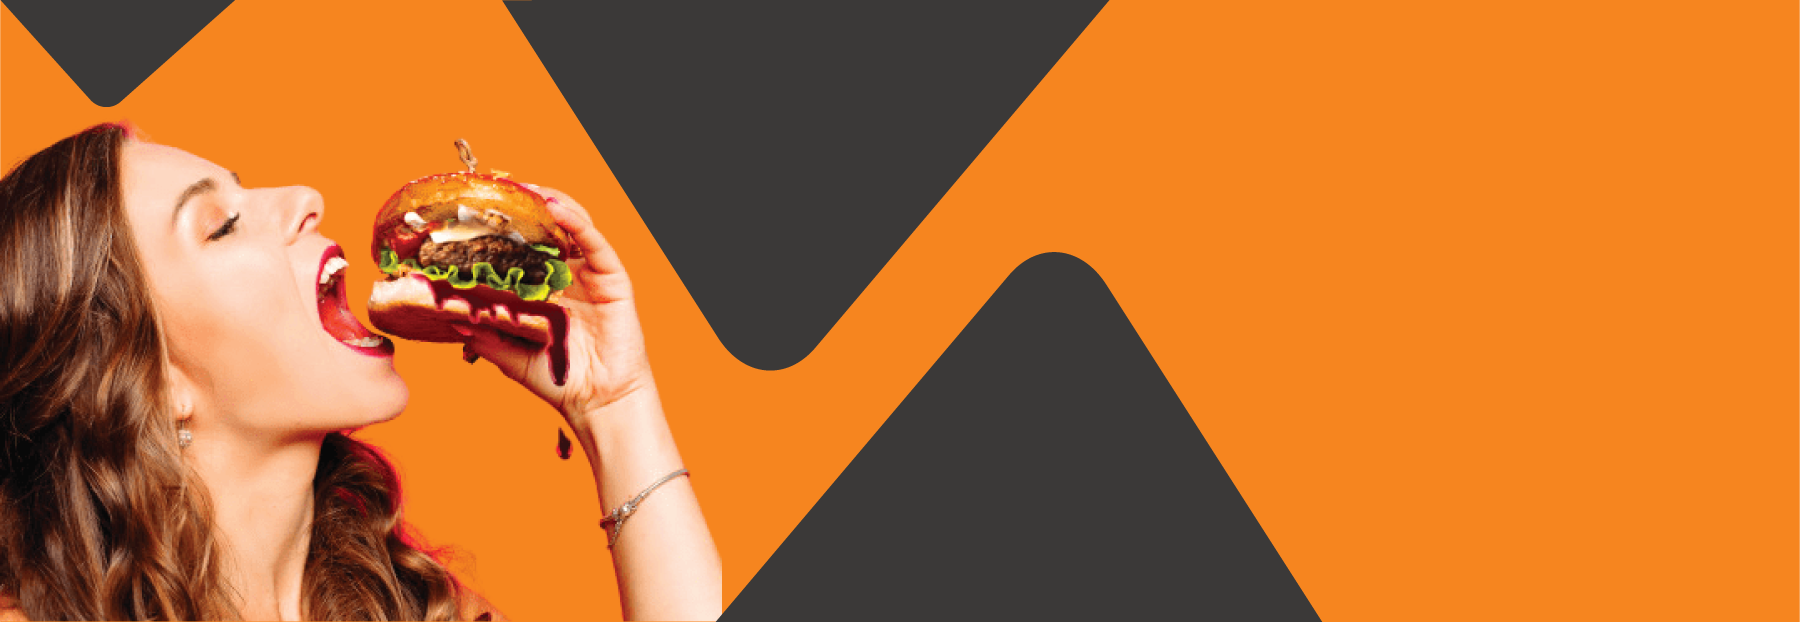
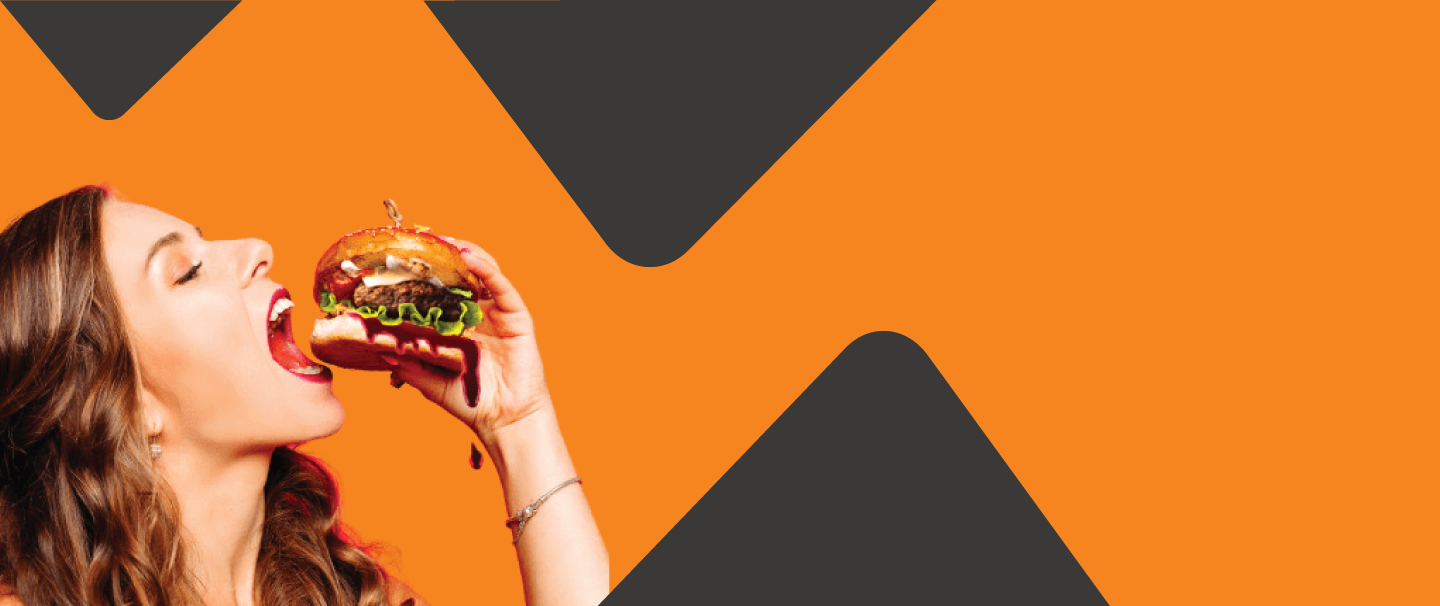
recipies part completed

diff --git a/css/style.css b/css/style.css
@@ -1,101 +1,128 @@
-*{
+body{
     margin: 0;
     padding: 0;
     font-family: 'Poppins', sans-serif;
 }
-
-/* ======banner part start======== */
-.top-banner{
-    margin-bottom: 9%;
-}
-.top-banner-area{
+/* ==========start Header Part============= */
+.header{}
+.header-section{
     display: flex;
-    width: 100%;
-    padding: 3%;
+    margin-bottom: 10%;
+    
 }
-.banner-content{
+.header-sec-content{
     width: 50%;
-    margin-top: 7%;
-}
-.banner-content h1{
-    font-weight: 800;
-    font-size: 50px;
-    color: gray;
-    margin-bottom: 20px;
+    padding: 3%;
+    margin-top: 9%;
 }
 .color-orange{
     color: orange;
 }
-.banner-content h2{
-    font-size: 32px;
-}
-.banner-content p{
-    color:gray;
-    margin-bottom: 25px;
-}
-.banner-content a{
-    background-image:linear-gradient(orange,tomato) ;
-    padding: 10px 40px;
-    border-radius: 5px;
-    text-decoration: none;
+.header-sec-content h1{
+    font-size: 50px;
+    color: gray;
     font-weight: 800;
+}
+.header-sec-content h2{
+    font-size: 18px;
+    color: gray;
+}
+.header-sec-content p{}
+.header-sec-content a{
+    background-image: linear-gradient(orange, tomato);
+    padding: 10px 40px ;
+    border-radius: 10px;
     color: white;
-    
+    font-weight: 900;
+    text-decoration: none;
 }
 .price{
-    font-size: 25px;
-    color: gray;
-    font-weight: 600;
-    margin-left: 20px;
+    font-size: 35px;
     text-decoration: underline;
+    margin-left: 20px;
+    color: gray;
 }
-.banner-image{}
-.banner-image img{
-    margin-top: 45px;
-    border-radius: 49% 22%;
-    width: 553px;
+.header-sec-img{
+ 
 }
+.header-sec-img img{
+    margin-top: 9%;
+    width: 100%;
+    border-radius: 35% 1%;
+}
+/* <!-- ===========End Header Part============= -->
 
-/*=============== banner part end ============== */
 
-
-/*=============== Middle banner part start ============== */
-#middle-banner{
-    
-    background-image: url(../Images/final-middle-banner.png);
+  <!-- ===========Start banner Part============= --> */
+.banner{
+    background-image: url(../Images/final-middle-banner.png) ;
     background-repeat: no-repeat;
     background-size: cover;
-    height: 500px;
+    height: 650px;
     width: 100%;
-    
-  
+
+    margin-bottom: 80px;
 }
 .about{
     margin-left: 70%;
-    padding-top: 6%;
-  
+    padding-top: 8%;
 }
 .about h1{
-    font-weight: 900;
-    color: white;
+    font-size: 30px;
+    font-weight: 800;
 }
-.about-text{
-    margin-top: 10px;
-    font-size: 18px;
-    margin-bottom: 20px;
+.about h2{
+    color: gray;
 }
 .about p{
-    margin-bottom: 20px;
+    text-align: justify;
+    width: 85%;
 }
 .about a{
-    background-image: linear-gradient(#ffffff,#000000);
-    padding: 10px 40px;
-    color: white;
-    text-decoration: none;
-    border-radius: 10px;
-    font-weight: 900;
-    font-size: 18px;
-
+text-decoration: none;
+font-size: 18px;
+font-weight: 800;
+background-image: linear-gradient(white,black);
+padding: 10px 40px;
+color: white;
+border-radius: 10px;
 }
 
-/* --============= Middle banner part end  ==========-- */
+.arrow{
+    font-weight: bold;
+    color: black;
+    font-size: 18px;
+    
+}
+/* -- ===========end banner Part=============  */
+
+/* ============start Recipies part============== */
+.recipies{
+margin: 0 auto;
+width: 50%;
+}
+.recipies-content{
+text-align: center;
+
+}
+.recipies-content p{
+    color: gray;
+}
+.recipies-content h1{
+    font-size: 30px;
+    font-weight: bold;
+}
+
+/* ============End Recipies part============== */
+
+
+
+
+
+
+
+
+
+
+
+

diff --git a/Index.html b/Index.html
@@ -12,56 +12,58 @@
 </head>
 <body>
     
-    <section class="top-banner">  
+    <!-- ===========start Header Part============= -->
 
-            <!----========= banner content part ==========----->
-
-            <div class="top-banner-area">
-                
-                <div class="banner-content">
-                    <h1><span class="color-orange">UNLIMITED</span> MEDIUM PIZZAS</h1>
-                    <h2>Medium 2-topping* pizza</h2>
-                    <p>*Additional charge for premium toppings. Minimum of 2 required</p>
-                    <a href="">Order Now</a> <span class="price">$25.99</span>
-
-                </div>
-
-            <!--========== banner image part=============== -->
-
-                <div class="banner-image">
-                    <img src="./Images/banner top.png" alt="">
-
-                </div>
-
+    <section class="header">
+        <div class="header-section">
+            <div class="header-sec-content">
+                <h1>UNLIMITED MEDIUM <span class="color-orange">BURGERS</span></h1>
+                <h2>Medium 2-topping* Burger</h2>
+                <p>*Additional charge for premium toppings. Minimum of 2 required.</p>
+                <a href="">Order Now</a> <span class="price">$25.99</span>
 
             </div>
 
-    </section>
+            <div class="header-sec-img">
+                <img src="images/1.png" alt="">
 
-
-    <!--========= top banner part end============== -->
-
-    <section id="middle-banner">
-       
-           <div class="about">
-                <h1>About US</h1>
-                <h2 class="about-text">Delivering best ingredients for our trusty food lovers</h2>
-                <p>BurgerFi is committed to providing the best burger experience.  That’s why we serve chef-created, fresh food in an eco-friendly environment.  We use 100% natural American Angus beef with no steroids, antibiotics, or growth hormones.  We also serve premium Wagyu beef, cage-free chicken, award-winning VegeFi Burger, Beyond Meat Burger and more.  Don’t forget to try our made-to-order sides, like fresh-cut fries and double beer-battered onion rings or our delicious frozen custard desserts.</p>
-
-                <a href="">Read More . . .</a>
-           </div>
-
-       
+            </div>
+            
+        </div>
 
     </section>
+   
+  <!-- ===========End Header Part============= -->
 
 
-<!-- Middle banner part end  -->
+  <!-- ===========Start banner Part============= -->
 
+<section class="banner">
+    <div class="about">
+        <h1>About US</h1>
+        <h2>Welcome to Burger Hungry</h2>
+        <P>I am Yang Zi Jiang. I am a student. I want to Develop my self. That's why I'm doing this Burger Business.Our burgers are made with our special beef blend of sirlion, round and prime rib Canadian Beef. Ground fresh daily and hand pressed.</P>
 
+        <a href="">Read More <span class="arrow">--></span></a>
 
+    </div>
 
+</section>
 
+ <!-- ===========end banner Part============= -->
+
+ <!-- ============start Recipies part============== -->
+
+ <section class="recipies">
+     <div class="recipies-content">
+         <h1>My Recipies</h1>
+         <p>Today, every hand-pressed burger that leaves our kitchen is made from our unique blend of sirloin, round and prime Canadian Beef. It’s authentic, free of preservatives and flame-grilled to juicy perfection.</p>
+
+     </div>
+
+ </section>
+
+ <!-- ============End Recipies part============== -->
 
 </body>
 </html>
